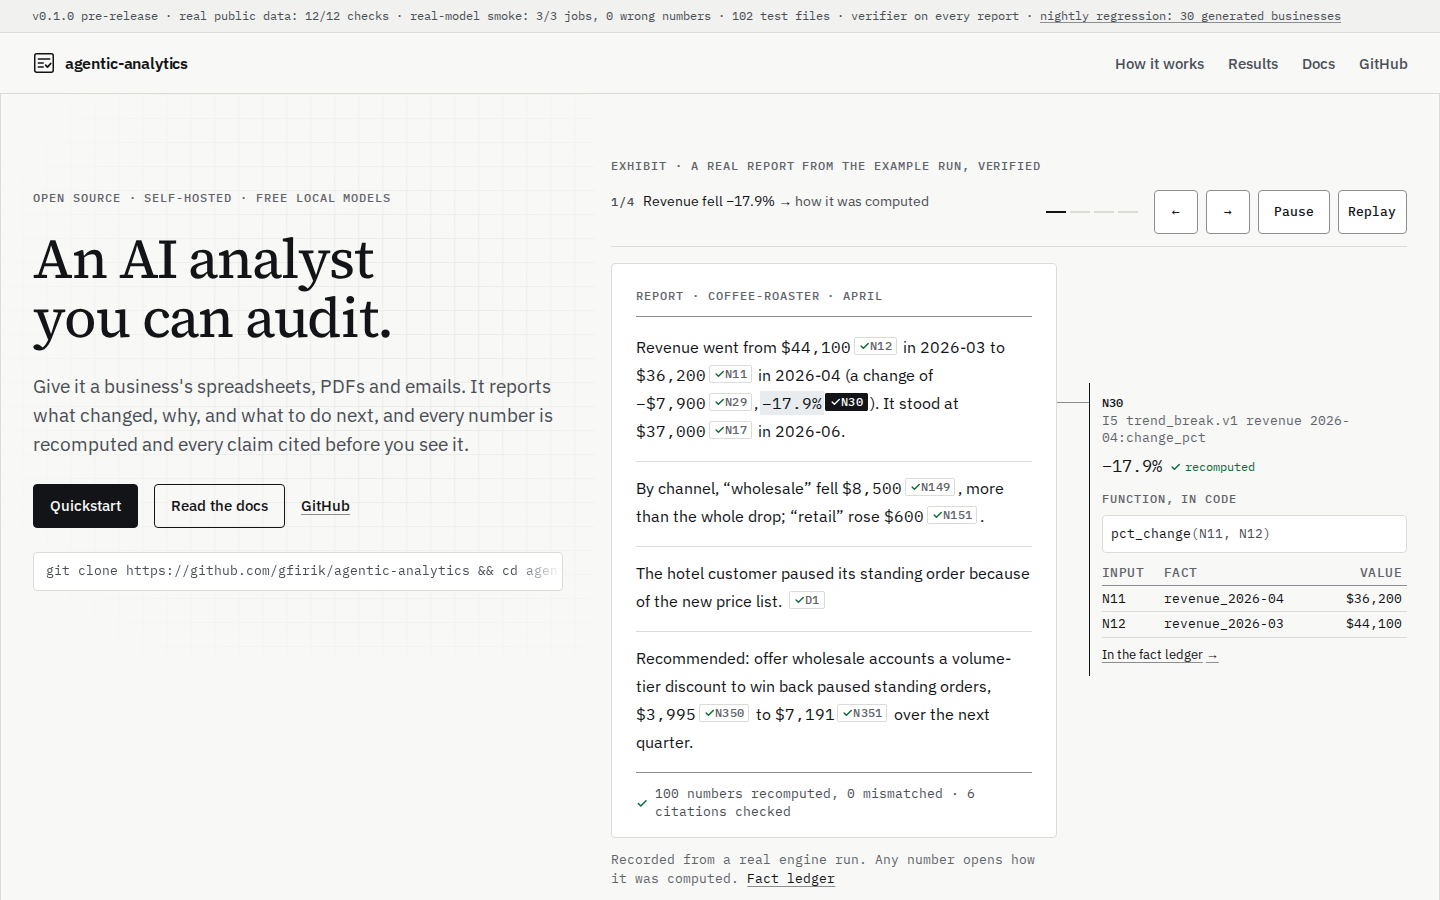
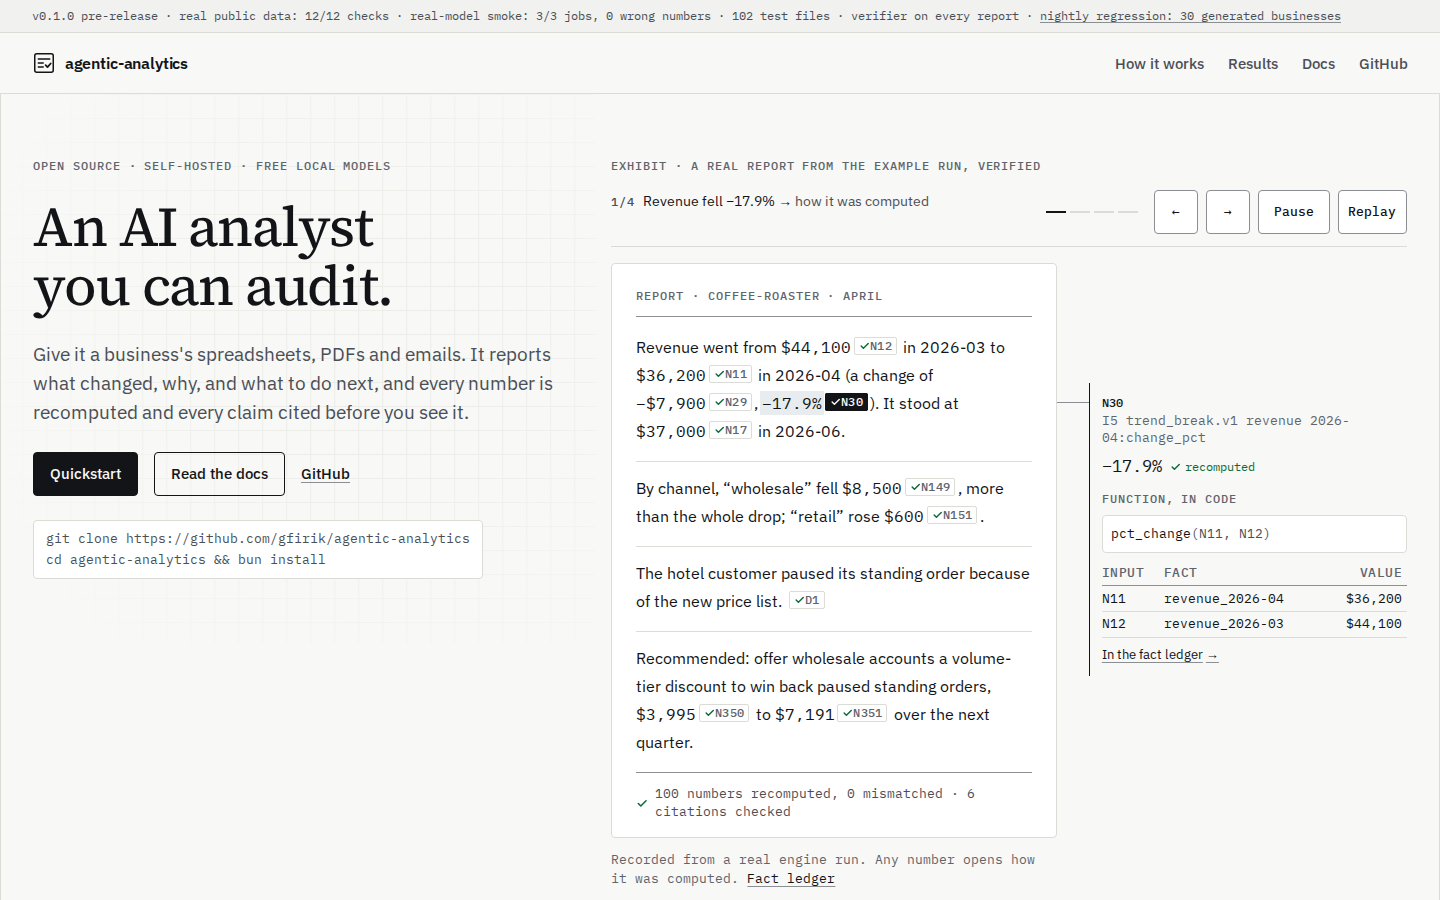
fix(site): v4 PR 1 review, a two-line install command, aligned hero tops
The hero's install command is two fixed lines, so the statement column no
longer cuts it mid-word at 1440 and 1920; the eyebrow lines up with the
exhibit's label. DESIGN.md section 1 describes the on-load replay, and a
comment and DESIGN note say why the vw-sized graph paper never scrolls the
page (the paper clips it). Adds a 1280 screenshot, where the notes sit
under the report page, and records the empty left column under the
section 2 and 4 heads as a gap for PR 3.

diff --git a/apps/docs/DESIGN.md b/apps/docs/DESIGN.md
@@ -6,7 +6,7 @@ This is the design system for the product site in `apps/docs`: the landing page,
 
 The site is an **audited working paper**:
 
-- **The landing page is the cover sheet.** It is a calm, graph-paper surface with one live exhibit: a real report that proves itself as you scroll, and again when you touch it.
+- **The landing page is the cover sheet.** It is a calm, graph-paper surface with one live exhibit: a real report that proves itself on the first screen, and again when you touch it.
 - **The docs are the bound appendix.** They are long-form, quiet and built for reading, with evidence in the margin.
 
 The product's promise is that every number can be traced, so the site shows numbers the same way the report does. Each one sits next to the ID of the fact it came from, and a mark shows that it was recomputed.
@@ -127,14 +127,14 @@ The scale (rem, root 16px; mobile values apply under 640px):
   - sections divided by full-bleed hairlines that meet the frame;
   - a small `+` tick in `rule-strong` where the lines cross.
 
-  This is the "working paper" structure, and it replaces cards. Under 720px only the hairlines remain. The paper clips anything outside the screen (`overflow-x: clip`), so the ticks and the graph paper never scroll the page sideways.
+  This is the "working paper" structure, and it replaces cards. Under 720px only the hairlines remain. The paper clips anything outside the screen (`overflow-x: clip`), so the ticks and the graph paper never scroll the page sideways (the graph paper is sized with `vw`, which includes a classic scrollbar's width; the clip hides that excess).
 - **Wide rows (site v4).** From 1100px a section is one row of two columns, about 2:3: the text on the left (label, `h2`, lead, at the 56ch measure) and a large visual on the right. A visual that needs the room (the results table) gets a full-width band instead, with the head above it. Below 1100px the columns stack, the head centred above its visual.
 - **Graph-paper field.** A 24px grid in `--aa-grid`, behind the hero statement and the section heads only. It is full-bleed: stacked, a head's field spans the screen's width over the head's height; in a wide row it runs from the screen's left edge to the middle of the gap before the visual. It fades to the plain page at its edges through a CSS mask (no image) and is never behind a visual or long text.
 - **Status strip.** One quiet mono line above the header, on `surface`, not a scrolling marquee. On narrow screens it stays one line and scrolls sideways instead of wrapping (a horizontal scroll box, §6: keyboard-focusable, no scrollbar, a fade at the edge with more), so the font swap can't move the page. Proven results lead: the release, the real public data checks, the real-model smoke run, the test files and the verifier. The generated-business suite comes last as the nightly regression check, a link to §3's results, never a headline figure (a partial pass reads as failure next to proven results). Its values come from generated data (`statusStrip()` in `scripts/landing-data.ts`).
 - **Section heads:** every landing section opens with the same three lines, `--aa-space-4` apart: the bracketed label, the `h2` (at most a 48ch measure) and a one-sentence lead. Stacked, they are centred on the graph paper with the label's hairline on both sides; in a wide row or band (from 1100px) they sit on the left, and the label's hairline runs only after it. Caveats go next to what they qualify (§3's under its table), not in the lead.
 - **Sections, in order** (nothing else: no testimonials, logo wall or newsletter):
   1. Status strip, header, then **the hero**, two columns from 1100px:
-     - **left, the statement:** a mono eyebrow label, the serif headline, one or two lines on what it is and what it solves, the actions, and the install line (one line that scrolls sideways when the column is narrower than it);
+     - **left, the statement:** a mono eyebrow label, the serif headline, one or two lines on what it is and what it solves, the actions, and the install line (two fixed lines, the clone and then `cd … && bun install`, so the column never cuts it mid-word at 1440; a box that scrolls sideways on phones);
      - **right, the exhibit** (§6): its label and the report page with its walkthrough, so the verification replay plays on the first screen (the report page's top at about 260px at 1440×900). At 1440 the right column is about 795px, wide enough for the notes to sit beside the report page; between 1100 and about 1410px they sit below it;
      - **below 1100px** the statement is centred and the exhibit follows it.
   2. **The engine machine's strip** (§6, `EngineMachine.astro`), in its own row under the hero, full container width: a label, **Open the machine**, and a still image of the machine (on phones the label and the button only). Site v4's PR 2 replaces it with a live section.

diff --git a/docs/progress/STATE.md b/docs/progress/STATE.md
@@ -366,9 +366,11 @@ These are checks that need something this machine doesn't have yet, such as a re
 - [Site v4 PR 1] Landing rows are about 2:3 (text left, visual right) from 1100px; below 1100px they stack with the head centred, as before. §2's proofs become three ruled rows (words left, example right) in the wide row and keep the v3 subgrid cells from 52rem to 1100px; §4's steps become ruled rows (label and note beside the code) with the binaries under the head and the doors under the steps. §3 is a full-width band with its h2 on one line. The graph paper is full-bleed: a stacked head's field spans the screen; a row head's field runs from the screen's left edge to the middle of the gap, so it never sits behind a visual. The wide row class is `.aa-split` (`.aa-row` is already a global flex class in islands.css)
 - [Site v4 PR 1] Browser tests updated where they encoded the old layout: the replay test no longer scrolls first and asserts the report page is on the first screen at 1440×900; the section-heads test checks a band's h2 on one line and a row's h2 in at most two lines with its visual to the right in the same row (the "h2 on one line at 1440" rule was for centred heads); the machine test's fold check moved from the removed `.aa-exhibit-sheet` to the report page; the no-sideways-scroll test also covers 1099, 1280 and 1440 — scripts/site/browser/site.spec.ts
 - [Site v4 PR 1] The fact chip's transparent hit box reaches 5.5px past its padding box (was 6px): about 27px tall, still over the 24px floor, and under one exhibit line (1rem / 1.75 = 28px). In the hero's narrower report page two chips (N11, N29) fall on adjacent lines one above the other, and 6px boxes overlapped by about 2px, so a tap just under N11 hit N29 — apps/docs/src/styles/components.css
+- [Site v4 PR 1] The hero's install command is two fixed lines (`git clone …`, then `cd agentic-analytics && bun install`) rather than one: in the ~530px statement column one line was cut mid-word by the scroll fade at 1440 and 1920. Explicit lines keep its height independent of the font swap (M13k); on phones the box still scrolls sideways. The statement's top padding is gone so its eyebrow lines up with the exhibit's label (spec review, #56)
 
 ## Known gaps carried forward
 
+- [Site v4 PR 1] At 1440 the left column under the §2 and §4 heads is empty for most of the row (the visuals are taller than the heads). A sticky head (or another use of that room) is left for PR 3, with the page motion, rather than pinning content in this layout-only PR (spec review SHOULD 4, #56)
 - [Site 3D] Cosmetic, from QA (2026-10-21):
   - in the Follow view at 1440 the legend covers part of the label "09 Check everything" (`layout()` keeps labels clear of each other and the canvas edges, not the legend or toolbar boxes);
   - at 360 the open sheet's scroll box has no fade to show more text;
